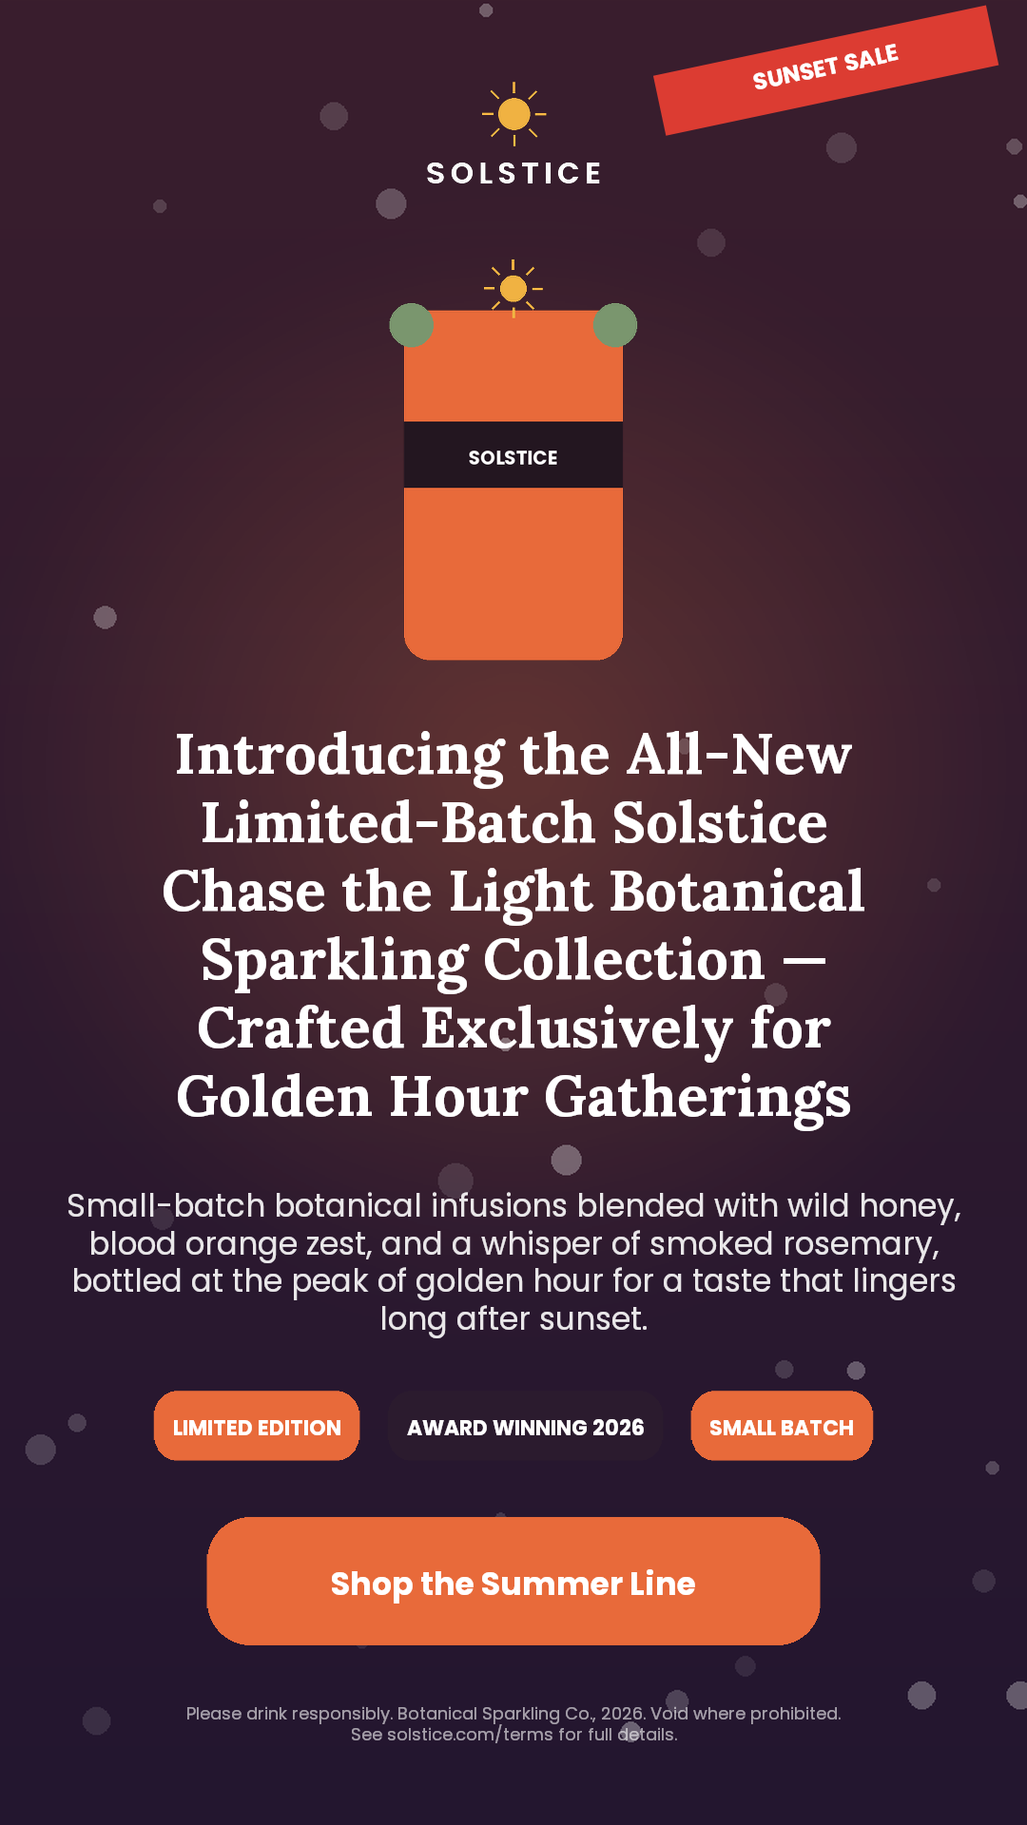
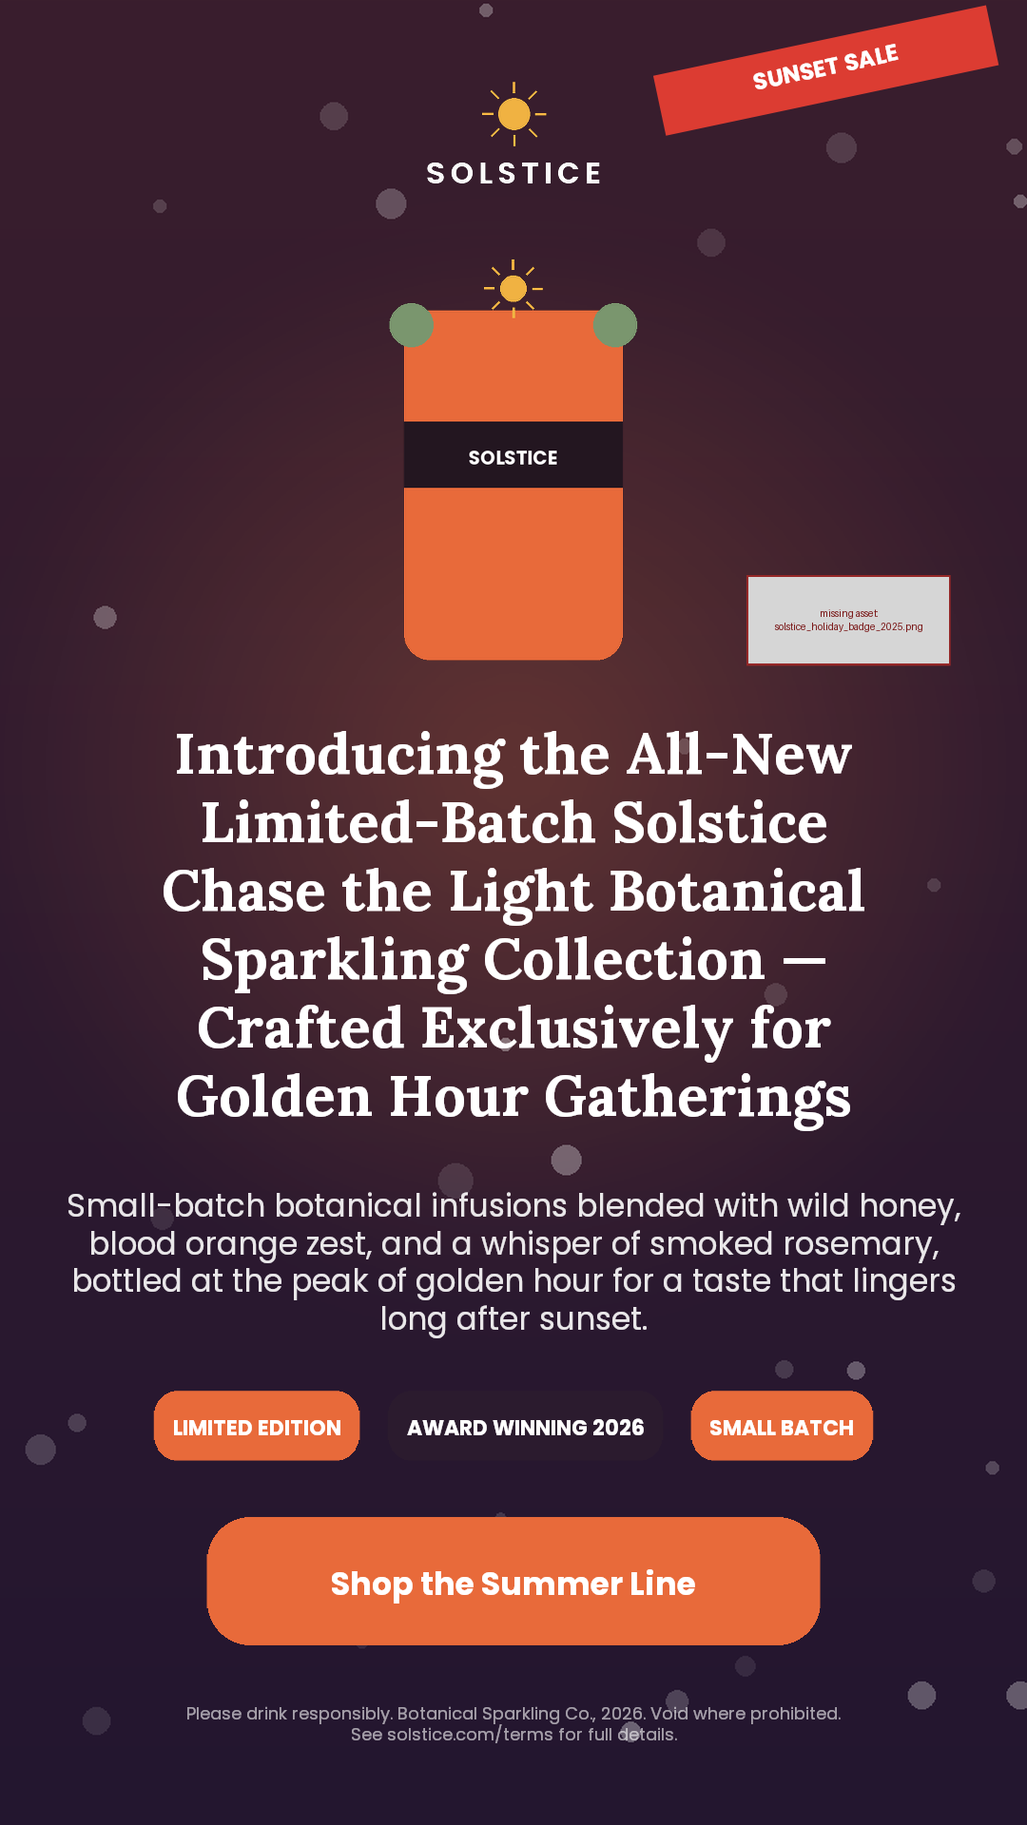
docs: describe engine v1.29 and rebuild the add-on previews

Changed region(s): [[0.7028, 0.3125, 0.9472, 0.375]]

diff --git a/README.md b/README.md
@@ -1,8 +1,8 @@
 # Team Chameleonizer: Project Chameleon, Adobe University Hackathon 2026
 
-Our entry implements `resize(source, target_canvas)` in `engine/resize.py`. Given a finished design as schema JSON and a new canvas size, it returns the same elements moved, resized and refit for that canvas. The copy, font families and asset pixels stay exactly as given, and the engine never stretches an image or generates anything new. The submitted version is engine v1.28.
+Our entry implements `resize(source, target_canvas)` in `engine/resize.py`. Given a finished design as schema JSON and a new canvas size, it returns the same elements moved, resized and refit for that canvas. The copy, font families and asset pixels stay exactly as given, and the engine never stretches an image or generates anything new. The submitted version is engine v1.29.
 
-![The official Level 2 sample, 1080x1080, re-laid-out by v1.28 as an 1800x2400 poster, a 336x280 ad, a 1600x400 banner, Full HD and a 970x90 strip](/docs/assets/resize-examples.jpg)
+![The official Level 2 sample, 1080x1080, re-laid-out by v1.29 as an 1800x2400 poster, a 336x280 ad, a 1600x400 banner, Full HD and a 970x90 strip](/docs/assets/resize-examples.jpg)
 
 The official Level 2 sample on five canvases, drawn by the official renderer inside the scoring Docker image.
 
@@ -18,7 +18,7 @@ docker run --rm --network none \
   my-chameleon-engine
 ```
 
-Each task in `input/` produces `<task>_output.json` and `<task>_output.png` in `output/`. The engine makes no network calls and loads no model. `requirements.txt` pins every package to the version installed in the image our benchmark ran in.
+Each task in `input/` produces `<task>_output.json` and `<task>_output.png` in `output/`. The engine runs on the CPU alone. It needs no GPU, makes no network calls and loads no model at run time. Its code imports the official renderer `cr-renderer`, pinned to a fixed commit, along with `skia-python`, Pillow and NumPy, and the other packages in `requirements.txt` come in with the renderer. That file pins every package to the version installed in the image our benchmark ran in. After 20 s on one task, the engine stops trying new candidates and returns the best one it has scored, so one hard design cannot hold up the tasks behind it. The slowest of our 169 benchmark tasks took 9.1 s in the scoring container, and the official Level 3 sample once took 12.1 s there on a busy host.
 
 To run without Docker, you need Python 3.11 or newer, plus `git`, because pip installs the renderer from its Git repository:
 
@@ -37,7 +37,7 @@ The engine starts by working out what each element is. It gives each element a r
 
 Next it sorts the target canvas into one of five shapes: tall, square, landscape, banner or strip. For that shape it proposes candidate layouts, such as a vertical stack, the product beside a column of text, or everything in one row. It then sizes and wraps each candidate's text with the official renderer's own fonts and metrics, so the text the engine measures is the text the renderer draws. Type stays at 10 px or 1.1% of the canvas's short side, whichever is larger, and the engine goes below that floor only when a crowded layout leaves no other room.
 
-Instead of rendering the candidates, the engine scores them. Coded checks in `engine/core/critic.py` read geometry, measured text and probes of the asset pixels. Together they score every candidate for collisions, overflow, readability, brand, hierarchy, use of space, clutter and faithfulness to the source. The engine then rebuilds the best candidate with matched margins and shrinks any text that would run past the canvas. If copy still collides after that, it switches to a packed layout that gives every unit its own slot. In our benchmark that happened on 10 of 169 tasks, all of them small ads.
+Instead of rendering the candidates, the engine scores them. Coded checks in `engine/core/critic.py` read geometry, measured text and probes of the asset pixels. Together they score every candidate for collisions, overflow, readability, brand, hierarchy, use of space, clutter and faithfulness to the source. The engine then rebuilds the best candidate with matched margins and shrinks any text that would run past the canvas. If copy still collides after that, it switches to a packed layout that gives every unit its own slot. In our benchmark that happened on 11 of 169 tasks, ten of them at 320x100 or smaller and the official Level 3 sample at 728x90.
 
 As it finishes the layout, the engine enforces the hard rules on every element. Each id appears once, and every element and every wrapped line stays inside the canvas. Non-background images keep their source aspect within 2%, and every font size is an integer.
 
@@ -47,7 +47,7 @@ When something goes wrong, `resize()` still returns a valid design. If the engin
 
 In the submitted engine, coordinates, sizes and the final choice of layout come from code. Small models are unreliable both at placing elements and at judging quality, as section 5 of `docs/research.md` sets out. The organizers have also not published their approved model list, so the engine has to work with no model at all.
 
-Scoring from geometry and measured text needs no render, so the engine can score every candidate it builds. The slowest of our 169 benchmark tasks finishes in 6.3 s in the scoring container.
+Scoring from geometry and measured text needs no render, so the engine can score every candidate it builds.
 
 Hidden test designs may use opaque ids, so the engine reads roles from geometry. A rule keyed on an id like `headline` would break on those designs. `tests/test_robustness.py` checks that random ids produce the same layout as the original ids. Every failure path also ends in a layout that passes the hard rules, because a crash scores nothing.
 
@@ -57,7 +57,7 @@ We built the core so it can run inside an Adobe Express add-on after stage one. 
 
 ## Hard rules
 
-The engine changes only position, size and font size, except on an image whose asset file is missing from `brand_kit/assets/`. In its place the renderer would draw a grey placeholder box that reads as broken, so the engine shrinks that image, sets its opacity to 0 and gives it a `z_index` behind the background. The engine hides nothing else. An opt-in setting, `CHAMELEON_DROP_POLICY=occlude`, can hide low-priority units on strip canvases, but it is off by default and the Dockerfile does not set it.
+The engine changes only position, size and, on text, font size. It hides nothing, because the recap of the organizers' October 22 session asks that every input element stay visible. That includes an image whose asset file is missing from `brand_kit/assets/`, which the renderer draws as a grey placeholder box. The engine never makes that image the logo or the hero. It places the box after the copy, in free space where it can, at about the image's share of the source canvas and at least 8 px on its shorter side. An opt-in setting, `CHAMELEON_DROP_POLICY=occlude`, hides a missing asset on any canvas and low-priority units on strips. It is off by default, and the Dockerfile does not set it.
 
 Copy, font family and asset pixels never change. Every image keeps its source aspect within 2%, inside the starter code's 5% tolerance. The one exception is a `cover` backdrop that fills at least 85% of the canvas. The engine sizes its box to the full canvas and the renderer crops the image to fit, the way the starter code treats a full-bleed backdrop, so no pixel stretches.
 
@@ -65,19 +65,20 @@ Copy, font family and asset pixels never change. Every image keeps its source as
 
 We tuned the engine against a frozen benchmark of 169 tasks in four splits. The `dev` split has the 3 official samples and 36 generated designs, and `test` has 18 held-out tasks. The `probe` split runs 12 hand-made designs at 5 formats each, and `formats` runs 4 designs at 13 sizes. The organizers have not published the scorer's rubric, so we had Claude judge the renders on the qualities in section 2.5 of the brief. The engine never calls the judge. Every number below comes from renders we made inside the scoring Docker image.
 
-| Check on v1.28 | Result |
+| Check | Result |
 |---|---|
-| Structural checks | 169 of 169 tasks pass, with each id once: `dev` 39, `test` 18, `probe` 60, `formats` 52 |
-| Rules audit | No element and no wrapped line past the canvas, integer font sizes, copy and fonts unchanged, worst image aspect drift 0.024% |
-| Pairwise against v1.27, both image orders | 20 wins, 6 losses and 18 ties on the 44 tasks whose output changed |
-| Judge score out of 10 | `dev` 6.85, `test` 7.11, `formats` 6.00, against 6.85, 7.11 and 5.96 for v1.27. `probe` was not rescored |
+| Structural checks on v1.29 | 169 of 169 tasks pass, with each id once: `dev` 39, `test` 18, `probe` 60, `formats` 52 |
+| Rules audit on v1.29 | No element and no wrapped line past the canvas, no element hidden, `opacity` and `z_index` unchanged, integer font sizes, copy and fonts unchanged, worst image aspect drift 0.027% |
+| v1.29 against v1.28 | The 19 tasks with a missing asset changed, and the other 150 outputs are byte-identical |
+| v1.28 against v1.27, pairwise in both image orders | 20 wins, 6 losses and 18 ties on the 44 tasks whose output changed |
+| Judge score out of 10 on v1.28 | `dev` 6.85, `test` 7.11, `formats` 6.00, against 6.85, 7.11 and 5.96 for v1.27. `probe` was not rescored, and neither were the 19 tasks v1.29 changed |
 | Cold `--no-cache` build of this package | passes all 3 official samples |
 
 ### Known limits
 
-The smallest ads are the weak spot. Of the 709 text elements in the benchmark, 40 are drawn below 5 px, all on the five small ad sizes: 120x90, 234x60, 300x50, 320x50 and 320x100. The 10 drawn at 1 to 2 px all belong to the dense official Level 3 sample at 120x90 and 234x60. In the `formats` split, 11 of 52 tasks score 4 or below, all of them at the five small ad sizes.
+The smallest ads are the weak spot. Of the 709 text elements in the benchmark, 40 are drawn below 5 px, all on the five small ad sizes: 120x90, 234x60, 300x50, 320x50 and 320x100. The 10 drawn at 1 to 2 px all belong to the dense official Level 3 sample at 120x90 and 234x60. The judge scored 11 of the 52 `formats` tasks at 4 or below on v1.28, all of them at the five small ad sizes.
 
-The engine also treats any non-background image whose file is not in `brand_kit/assets/` as missing, so a design that names other assets loses those images.
+The engine reads asset pixels only from `brand_kit/assets/`, the folder the official renderer draws from. An image whose file is not there draws as the renderer's grey box, and the engine never makes it the logo or the hero, so a design whose product photo is missing has no hero. The box also takes room. On the official Level 3 sample at 300x250, a size outside the benchmark, v1.29 draws the ribbon label at 5 px, where v1.28 drew it at 8 px.
 
 ## Optional model harness
 

diff --git a/docs/experiments.md b/docs/experiments.md
@@ -19,6 +19,26 @@ How scores were taken below:
 - **"Critic"** is the engine's own coded score. It changes with the engine, so never compare it across versions.
 - **The v1.28 candidate entry:** changes were judged blind by in-session Claude agents with `tools/blind.py` and `tools/workflows/`, in both image orders, two independent replicas per change. A verdict that flips with the order is a tie. The other 2026-10-30 entries use the API judge.
 
+### 2026-10-30: v1.29 release, a missing asset stays visible
+- **Branch:** `fix/missing-asset-visible`, on `docs/readme-prose` at `3600a2d`.
+- **Hypothesis:** the recap of the organizers' October 22 information session says "Every input element should remain visible in the baseline output, consistent with the challenge requirements." v1.28 hid 19 missing-asset images across the benchmark, so the submission has to ship the visible placeholder from the entry below, with docs and add-on previews that match it.
+- **Change:** v1.29 is v1.28 plus that placeholder change. The release also updates the submission README, rebuilds the add-on previews and gives the default drop policy's reason in `engine/resize.py`.
+- **Result:** container runs in `chameleonizer:v1.26` with the release engine mounted, saved as `output/bench/v129-*`.
+  - **Outputs:** all 169 are byte-identical to `vis-*`, so the entry below describes the release. Against `final-*`, exactly the 19 tasks with a missing asset changed.
+  - **Rules:** structural dev 39/39, test 18/18, probe 60/60, formats 52/52. The independent rules check finds 0 problems, no hidden element and no `opacity` or `z_index` change. The worst aspect drift of an image that is not a full-bleed backdrop is 0.027%, on the 18x8 placeholder in `level3__button_120x90`, against 0.024% for v1.28. 956 tests pass and 11 skip. `tools.package_submission --verify` passes with 0 warnings.
+  - **Type sizes and fallbacks:** 709 texts, 40 under 5 px and 10 under 3 px, as in v1.28. The packed fallback now wins on 11 tasks instead of 10, and the new one is the official Level 3 sample at 728x90.
+  - **Time:** the slowest task, `level3__large_mobile_banner`, took 9.1 s in the `vis-*` run and 5.4 s in the `v129-*` run, against 6.3 s for v1.28. Both runs produced the same outputs, so the gap is run-to-run timing. The README quotes 9.1 s. The official Level 3 sample at 728x90 got slower. It took 1.7 s in `final-dev`, but 3.9 s in `v129-dev`, 8.3 s in `vis-dev`, 12.1 s in the package verify and 5.1 to 6.3 s in three reruns with a host load average near 16. It now wins with the packed row, and the 20 s budget still leaves room.
+  - **Judge:** not run. The key in `.env` returned 401 even on a models list call, so no absolute score or pairwise verdict exists for the 19 changed tasks. The README keeps v1.28's absolute scores and says so.
+  - **Viewer add-on:** the previews were rebuilt in the scoring image. Only the 6 Level 3 renders changed, and each now shows the grey box. Level 3 at 300x250, a size outside the benchmark, got worse. The box sits between the button and the fine print, and in the same layout the headline drops from 12 px to 10 px and the ribbon label from 8 px to 5 px, which no longer reads as "SUNSET SALE".
+- **Verdict:** keep as v1.29, the submission build, for the rules. Judge the 19 changed tasks pairwise against `final-*` once `.env` has a working key, and look at the Level 3 layout at 300x250.
+
+### 2026-10-30: a missing asset stays visible as the renderer's placeholder
+- **Branch:** `fix/missing-asset-visible`, on `docs/readme-prose` at `3600a2d`.
+- **Hypothesis:** the October 22 session recap says "Every input element should remain visible in the baseline output", FAQ Q1 allows only position, size and text font size to change, and the Level 3 note offers "skip it, placeholder it". Only the placeholder satisfies all three, so v1.28's hiding of a missing asset, opacity 0 behind the backdrop, has to go whatever it costs in score.
+- **Change:** by default an image whose asset file is missing is laid out and drawn as the grey placeholder, with its source `opacity` and `z_index`. It is always a secondary image, never the logo or the hero. Stacks and splits park it like a sticker once the copy is placed, packed rows set it under the action at the copy's scale, and its shorter side keeps at least 8 px. The critic and collision checks treat its whole box as opaque, since the probe reports no transparent margin for it. `CHAMELEON_DROP_POLICY=occlude` still hides it.
+- **Result:** container bench in `chameleonizer:v1.26`, saved as `output/bench/vis-*`. Structural checks pass on all 169 tasks. Exactly the 19 tasks with a missing asset changed and the other 150 outputs are byte-identical to `final-*`. The independent rules check finds 0 problems and no `opacity` or `z_index` change anywhere, where `final-*` had 19 of each. Placeholders run from 18x8 at 120x90 to 440x195 on A4, about 1% of the canvas. On 15 tasks the layout is unchanged apart from the parked box. On four Level 3 strips the button and ribbon shift to make room under the button, and Level 3 at 728x90 switches from the strip columns to the packed row, because the box parked beside the rotated ribbon pushed the collision penalty past the packed threshold. No box covers copy. The API judge could not run: the key in `.env` returned 401 on every request, so no pairwise verdict was recorded. Contact sheets of base against new are in the session scratchpad.
+- **Verdict:** keep, for the rules. Expect the judge to mark some of these 19 renders down for the grey box.
+
 ### 2026-10-30: v1.28 release review fixes
 - **Branch:** `rc/engine-v1.28`, on the v1.28 tree.
 - **Hypothesis:** the release review's code-safe findings can be fixed without moving any benchmark output.

diff --git a/docs/leaderboard.md b/docs/leaderboard.md
@@ -9,7 +9,8 @@ How to read the columns:
 
 | Version | Tag | Structural (dev / test) | Pairwise vs previous best (dev / test) | Judge overall (dev / test) | Judge fails at 4 or below (dev / test) | Verdict |
 |---|---|---|---|---|---|---|
-| v1.28 | none yet | 39/39, 18/18, probe 60/60, formats 52/52, in Docker | vs v1.27, API in the container: dev 4-1 with 5 ties, test 0-0 with 2 ties, probe 11-1 with 4 ties, formats 5-4 with 7 ties. Fixes combined vs the candidate: dev 1-0, probe 8-2, formats 3-0 | API container: 6.85 / 7.11, formats 6.00, probe not rescored | 2 / 0, formats 11 | **Submission build.** v1.27 plus equal-width pills, a headline lead on small banners, tiered packed text, buttons kept in one row, cover images sized by their visible pixels, and slimmer floored buttons at 300x250 and 336x280. Slowest task 6.3 s. YouTube safe area rejected |
+| v1.29 | none yet | 39/39, 18/18, probe 60/60, formats 52/52, in Docker | vs v1.28: not judged, because the API key in `.env` returned 401. The 19 tasks with a missing asset changed and the other 150 outputs are byte-identical | not rescored. v1.28's 6.85 / 7.11, formats 6.00, still describe the 150 unchanged tasks | not rescored | **Submission build.** v1.28 plus a missing asset kept visible as the renderer's grey placeholder, as the organizers' October 22 recap asks. No element is hidden and no `opacity` or `z_index` changes. Slowest task 9.1 s. The add-on's Level 3 preview at 300x250, outside the benchmark, regressed |
+| v1.28 | none yet | 39/39, 18/18, probe 60/60, formats 52/52, in Docker | vs v1.27, API in the container: dev 4-1 with 5 ties, test 0-0 with 2 ties, probe 11-1 with 4 ties, formats 5-4 with 7 ties. Fixes combined vs the candidate: dev 1-0, probe 8-2, formats 3-0 | API container: 6.85 / 7.11, formats 6.00, probe not rescored | 2 / 0, formats 11 | Accepted, superseded by v1.29. v1.27 plus equal-width pills, a headline lead on small banners, tiered packed text, buttons kept in one row, cover images sized by their visible pixels, and slimmer floored buttons at 300x250 and 336x280. Slowest task 6.3 s. YouTube safe area rejected |
 | v1.27 | none yet | 39/39, 18/18, probe 60/60, formats 52/52, in Docker | vs v1.26: dev 0-0 (2 ties), probe 5-0 (2 ties), formats 10-0, test unchanged. Vs v2: dev 0-0 (1 tie), probe 1-0 (2 ties), formats 10-0 (API, container) | API container: 6.85 / 7.11, probe 6.48, formats 5.96 | 1 / 0, probe 1, formats 11 | Accepted, superseded by v1.28. v1.26 plus `exp/engine-v2`'s skyscraper headlines and fine-print order, the word-pair cap measured at each size, and the packed fallback for small ads that pile content on copy |
 | v1.26 | `engine-v1.26` | 39/39, 18/18, probe 60/60, formats 52/52, in Docker | vs v1.25: formats 5-0, dev 0-0 (1 tie), test and probe unchanged (API, container) | not rescored | not rescored | Accepted, superseded by v1.27. No text draws past the canvas; rules-audit robustness fixes |
 | v1.25 | `engine-v1.25` | 39/39, 18/18, probe 60/60, formats 32/32, in Docker | vs v1.24: formats 1-0 (official Level 3 at 336x280), probe 0-0, dev and test unchanged (API, container) | not rescored | not rescored | Accepted. Dense copy fits small splits and stacks before parking |

diff --git a/addon/README.md b/addon/README.md
@@ -62,14 +62,14 @@ After an engine change, rebuild the renders so that the panel shows the engine y
 docker run --rm --platform linux/amd64 --network none --entrypoint python \
 	-v "$PWD/engine":/app/engine -v "$PWD/tools":/app/tools \
 	-v "$PWD/input":/app/input:ro -v "$PWD/addon":/app/addon \
-	my-chameleon-engine -m addon.build_renders --engine-label engine-v1.28
+	my-chameleon-engine -m addon.build_renders --engine-label engine-v1.29
 ```
 
 `build_renders.py` resizes each sample to every format in its `FORMATS` list with `engine.resize.resize`. It stops if an output breaks a hard rule that `tools.checks.structural` checks. Otherwise it writes the PNGs and `renders/index.json`, and it deletes any PNG that the new catalogue no longer lists.
 
-The Level 3 sample references `solstice_holiday_badge_2025.png`, which the brand kit leaves out on purpose. The source render shows the grey placeholder that the official renderer draws for a missing asset. The engine's outputs shrink that image, set it to opacity 0 and place it behind the background, so no output render shows the box.
+The Level 3 sample references `solstice_holiday_badge_2025.png`, which the brand kit leaves out on purpose. The source render shows the grey placeholder that the official renderer draws for a missing asset. The engine keeps that image visible, so the output renders show the same box, parked in free space at about its source share of the canvas.
 
-Known issue: in the Level 3 render at 300x250, the space in the button's "Summer Line" is narrow. v1.27 drew "SUNSETS ALE" and "Shop the SummerLine" there, and v1.28 draws both spaces in place.
+Known issue: the Level 3 render at 300x250, a size outside the benchmark, got worse in v1.29. The engine parks the grey box between the button and the fine print. In the same layout the headline drops from 12 px to 10 px and the ribbon label from 8 px to 5 px, too small to read "SUNSET SALE".
 
 ## What has been checked
 

diff --git a/docs/research.md b/docs/research.md
@@ -287,3 +287,5 @@ There is no official list. Licenses and parameter counts below were checked on H
 8. How should an element with a missing asset be handled?
 9. Are there model or network rules for the finale?
 10. How do we submit: repo link, zip or Docker image? Must the submitted repo be public?
+
+The recap of the organizers' October 22 information session answers questions 1 and 8 for the baseline output: "Every input element should remain visible." The engine keeps a missing asset visible as the renderer's grey placeholder and hides nothing by default.
